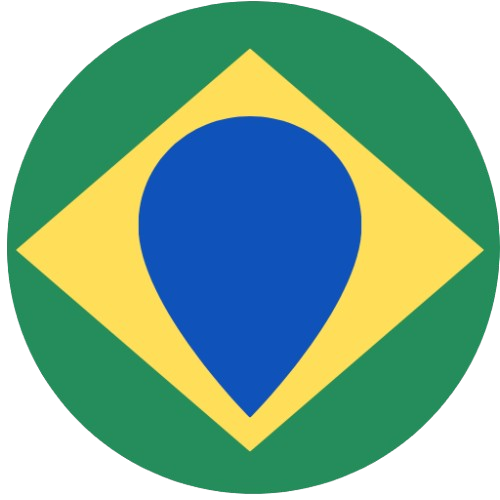
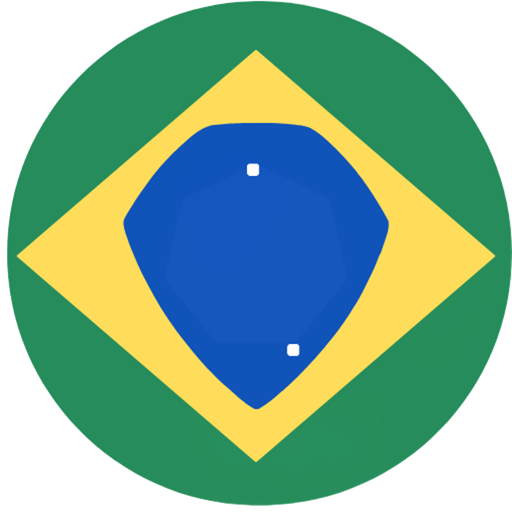
feat: atualizar página Sobre com novo logotipo e informações de uso do B94

diff --git a/src/app/sobre/page.tsx b/src/app/sobre/page.tsx
@@ -1,7 +1,7 @@
 import Link from "next/link";
 import { AlertTriangle, ArrowLeft, ExternalLink, Mail } from "lucide-react";
 import { Cabecalho } from "@/components/app-header";
-import { SafiraLogotipo } from "@/components/brand";
+import { B94Logotipo, SafiraLogotipo } from "@/components/brand";
 
 export const metadata = {
   title: "Sobre | SAFIRA",
@@ -26,12 +26,26 @@ export default function PaginaSobre() {
 
           <div className="mb-12 max-w-2xl">
             <p className="mb-5 font-mono text-[11px] uppercase tracking-[0.24em] text-muted-foreground">
-              guia rápido
+              sobre
             </p>
             <h1 className="text-4xl font-black tracking-[-0.08em] sm:text-6xl">
               <SafiraLogotipo className="text-4xl sm:text-6xl" />
             </h1>
             <p className="mt-6 max-w-xl text-base leading-7 text-muted-foreground">
+              Sistema de Análise Facilitada de Informações e Requerimentos
+              Assistenciais. O SAFIRA reúne módulos especializados para
+              agilizar tarefas do dia a dia da análise de benefícios.
+            </p>
+          </div>
+
+          <div className="mb-12 max-w-2xl">
+            <p className="mb-5 flex items-center gap-2 font-mono text-[11px] uppercase tracking-[0.24em] text-muted-foreground">
+              guia rápido
+            </p>
+            <h2 className="text-2xl font-black tracking-[-0.05em] sm:text-3xl">
+              Como usar o <B94Logotipo className="inline text-2xl sm:text-3xl" />
+            </h2>
+            <p className="mt-4 max-w-xl text-base leading-7 text-muted-foreground">
               Organize os dados do CONREAJ e extraia os valores PRISMA do PDF em
               poucos passos.
             </p>
@@ -155,6 +169,15 @@ export default function PaginaSobre() {
                 >
                   contato@fabriciomagoga.com.br
                   <Mail className="size-4" />
+                </a>
+                <a
+                  href="https://fabriciomagoga.com.br"
+                  target="_blank"
+                  rel="noopener noreferrer"
+                  className="mt-2 inline-flex items-center gap-2 text-sm text-primary hover:underline"
+                >
+                  fabriciomagoga.com.br
+                  <ExternalLink className="size-4" />
                 </a>
               </article>
             </div>
